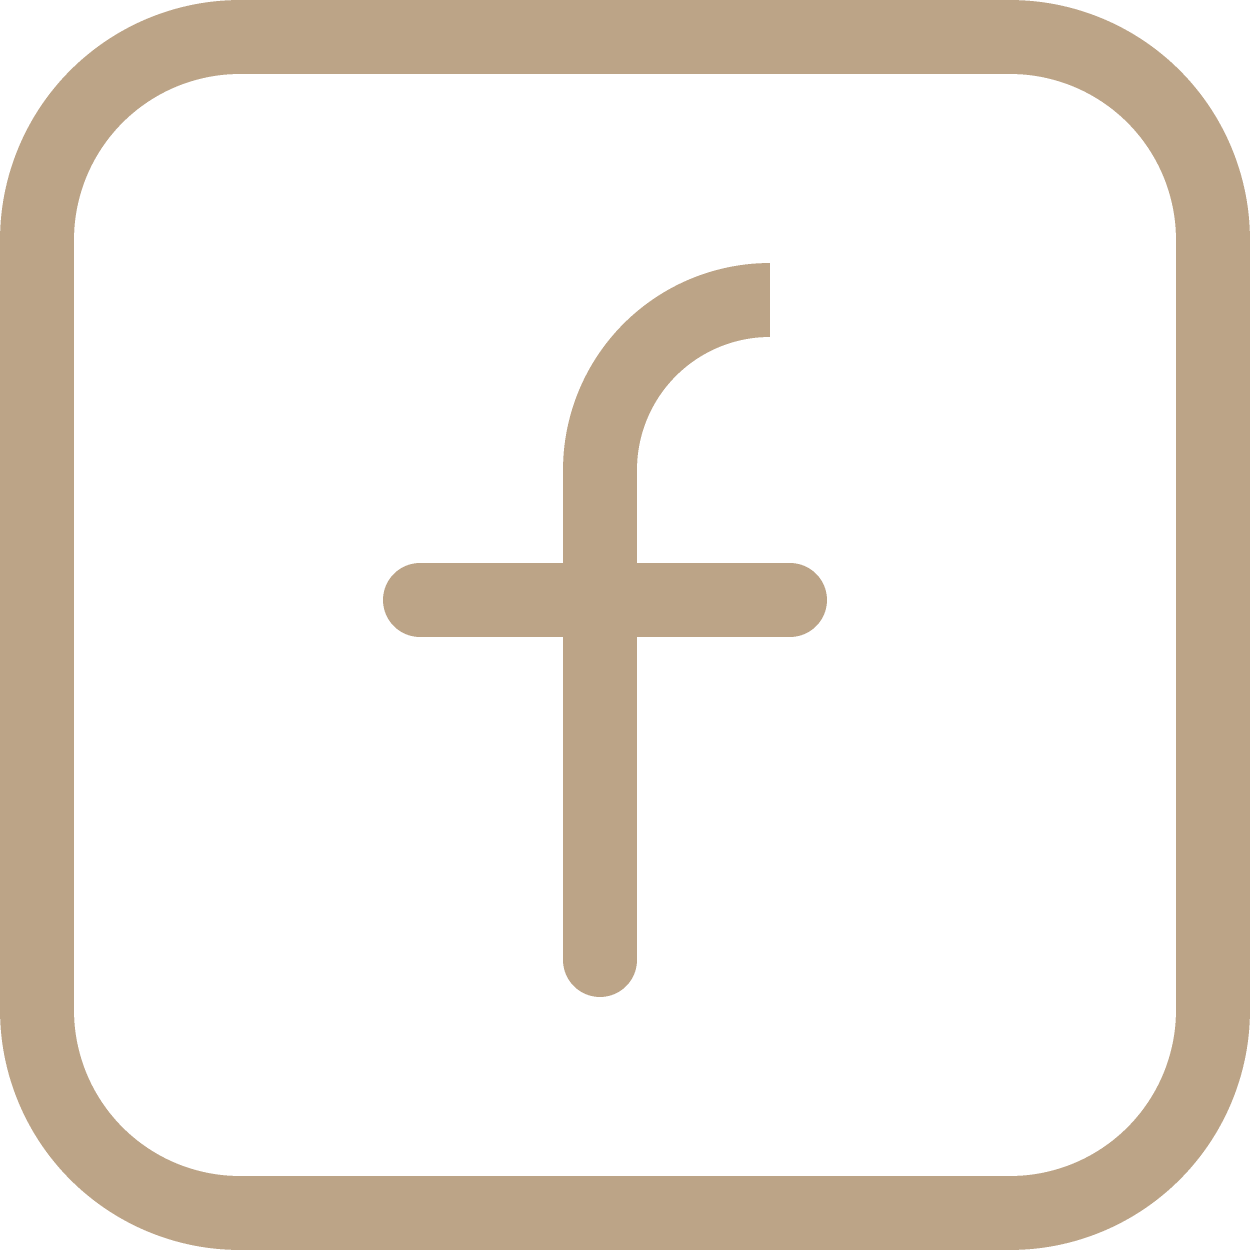
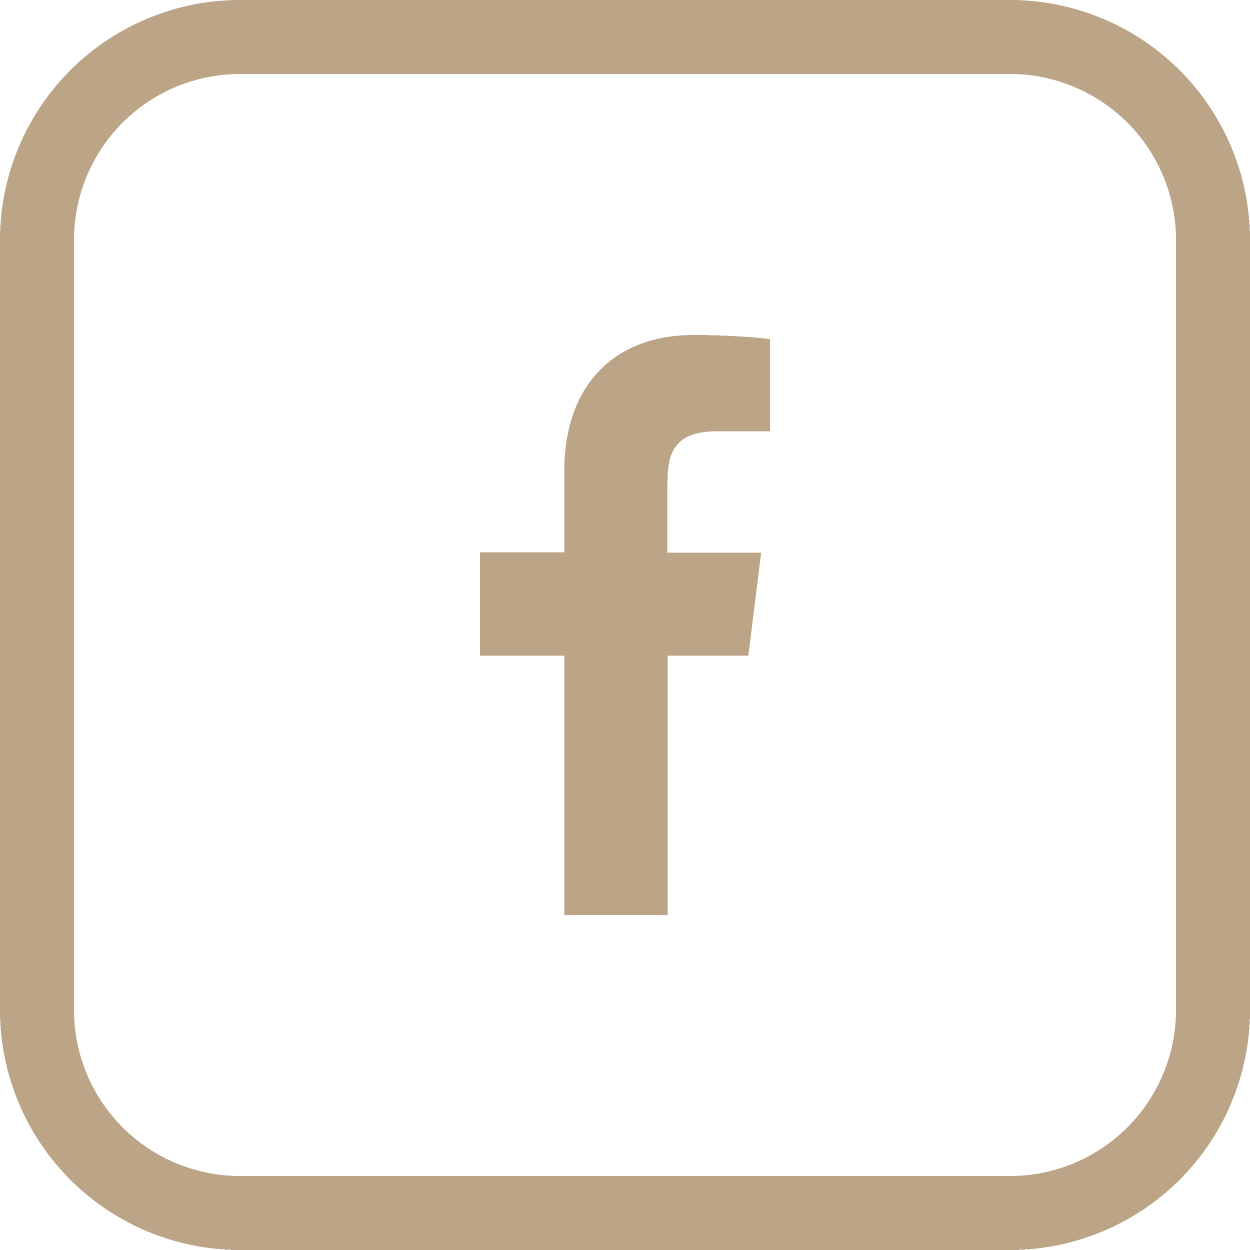
Icone Facebook : reprise du trace officiel de la marque
Le f precedent etait une lettre generique en trait fin, peu fidele. Il est
remplace par le trace vectoriel officiel, aplati et rempli, dans le cadre carre
arrondi repris de l icone Instagram existante.

Changed region(s): [[0.4368, 0.1872, 0.6864, 0.8112], [0.2808, 0.4368, 0.468, 0.5304]]

diff --git a/build-icon-facebook.js b/build-icon-facebook.js
@@ -1,6 +1,10 @@
 // Dessine l'icône Facebook manquante, calée sur le jeu d'icônes déjà en ligne
 // (mesures relevées sur instagam.png : toile 1250 px, trait 74 px, rayon de coin 240 px,
 // or rgb(188,164,135), tracé jointif au bord de la toile).
+//
+// Le « f » n'est pas une lettre redessinée : c'est le tracé officiel de la marque
+// Facebook, repris tel quel puis mis à l'échelle. Il est plein — c'est ainsi que la
+// marque existe ; un « f » en trait fin ne ressemble pas à Facebook.
 const fs = require('fs');
 const path = require('path');
 const { PNG } = require('pngjs');
@@ -8,101 +12,131 @@ const { PNG } = require('pngjs');
 const OUT = path.join(__dirname, 'out');
 fs.mkdirSync(OUT, { recursive: true });
 
-const N = 1250;      // toile, identique à instagam.png
-const SS = 3;        // supersampling
-const W = 74;        // épaisseur de trait du jeu existant
-const R_OUT = 240;   // rayon de coin extérieur du carré arrondi
+const N = 1250;          // toile, identique à instagam.png
+const SS = 3;            // supersampling
+const TRAIT = 74;        // épaisseur de trait du jeu existant
+const R_COIN = 240;      // rayon de coin extérieur du carré arrondi
 const OR = [188, 164, 135];
+
+const GLYPHE_H = Number(process.env.FB_H) || 580;  // hauteur du « f » sur la toile
+const CADRE = process.env.FB_CADRE || 'carre';     // 'carre' | 'cercle' | 'aucun'
+
+// --- tracé officiel de la marque, dans sa boîte d'origine 24x24 (x de 6.187 à 18.188)
+const PATH = [
+  ['M', 15.997, 3.985],
+  ['L', 18.188, 3.985],
+  ['L', 18.188, 0.169],
+  ['C', 17.810, 0.117, 16.510, 0, 14.996, 0],
+  ['C', 11.837, 0, 9.673, 1.987, 9.673, 5.639],
+  ['L', 9.673, 9],
+  ['L', 6.187, 9],
+  ['L', 6.187, 13.266],
+  ['L', 9.673, 13.266],
+  ['L', 9.673, 24],
+  ['L', 13.947, 24],
+  ['L', 13.947, 13.267],
+  ['L', 17.292, 13.267],
+  ['L', 17.823, 9.001],
+  ['L', 13.946, 9.001],
+  ['L', 13.946, 6.062],
+  ['C', 13.947, 4.829, 14.279, 3.985, 15.997, 3.985],
+];
+const BOITE = { x0: 6.187, y0: 0, x1: 18.188, y1: 24 };
+
+// --- aplatissement des courbes en polygone
+function polygone(scale, dx, dy, pas = 24) {
+  const pts = [];
+  const T = (x, y) => [dx + (x - BOITE.x0) * scale, dy + (y - BOITE.y0) * scale];
+  let cur = null;
+  for (const c of PATH) {
+    if (c[0] === 'M' || c[0] === 'L') {
+      cur = [c[1], c[2]];
+      pts.push(T(cur[0], cur[1]));
+    } else {
+      const [, c1x, c1y, c2x, c2y, ex, ey] = c;
+      const [sx, sy] = cur;
+      for (let i = 1; i <= pas; i++) {
+        const t = i / pas, u = 1 - t;
+        const x = u * u * u * sx + 3 * u * u * t * c1x + 3 * u * t * t * c2x + t * t * t * ex;
+        const y = u * u * u * sy + 3 * u * u * t * c1y + 3 * u * t * t * c2y + t * t * t * ey;
+        pts.push(T(x, y));
+      }
+      cur = [ex, ey];
+    }
+  }
+  return pts;
+}
+
+// --- remplissage par balayage de lignes (pair-impair : contour unique)
+function remplir(mask, W, H, pts) {
+  let ymin = Infinity, ymax = -Infinity;
+  for (const [, y] of pts) { if (y < ymin) ymin = y; if (y > ymax) ymax = y; }
+  const y0 = Math.max(0, Math.floor(ymin)), y1 = Math.min(H - 1, Math.ceil(ymax));
+  const xs = [];
+  for (let py = y0; py <= y1; py++) {
+    const yc = py + 0.5;
+    xs.length = 0;
+    for (let i = 0, n = pts.length; i < n; i++) {
+      const [ax, ay] = pts[i], [bx, by] = pts[(i + 1) % n];
+      if ((ay <= yc && by > yc) || (by <= yc && ay > yc)) {
+        xs.push(ax + ((yc - ay) / (by - ay)) * (bx - ax));
+      }
+    }
+    xs.sort((a, b) => a - b);
+    for (let k = 0; k + 1 < xs.length; k += 2) {
+      const a = Math.max(0, Math.ceil(xs[k] - 0.5)), b = Math.min(W - 1, Math.floor(xs[k + 1] - 0.5));
+      for (let px = a; px <= b; px++) mask[py * W + px] = 1;
+    }
+  }
+}
 
 // --- distance signée à un rectangle arrondi (repère centré)
 function sdRoundRect(x, y, hw, hh, r) {
-  const qx = Math.abs(x) - (hw - r);
-  const qy = Math.abs(y) - (hh - r);
+  const qx = Math.abs(x) - (hw - r), qy = Math.abs(y) - (hh - r);
   const ax = Math.max(qx, 0), ay = Math.max(qy, 0);
   return Math.hypot(ax, ay) + Math.min(Math.max(qx, qy), 0) - r;
 }
 
-// --- carré arrondi en contour, épaisseur W, bord extérieur collé à la toile
-const HW = N / 2;
-const rMid = R_OUT - W / 2;
-const cadre = (x, y) => Math.abs(sdRoundRect(x - HW, y - HW, HW - W / 2, HW - W / 2, rMid)) <= W / 2;
+function generer(fichier) {
+  const W3 = N * SS;
+  const mask = new Uint8Array(W3 * W3);
 
-// --- le « f », tracé d'épaisseur constante W : hampe + crochet tangents au même point
-const F_X = 600;        // axe de la hampe
-const F_JOIN = 470;     // raccord hampe / crochet
-const F_R = 170;        // rayon de la ligne médiane du crochet
-const F_BOTTOM = 960;
-const F_BAR_Y = 600, F_BAR_X0 = 420, F_BAR_X1 = 790;
+  // le glyphe, à l'échelle demandée et centré
+  const scale = (GLYPHE_H / (BOITE.y1 - BOITE.y0)) * SS;
+  const gw = (BOITE.x1 - BOITE.x0) * scale, gh = (BOITE.y1 - BOITE.y0) * scale;
+  remplir(mask, W3, W3, polygone(scale, (W3 - gw) / 2, (W3 - gh) / 2));
 
-function segment(x, y, ax, ay, bx, by) {
-  const dx = bx - ax, dy = by - ay;
-  const t = Math.max(0, Math.min(1, ((x - ax) * dx + (y - ay) * dy) / (dx * dx + dy * dy)));
-  return Math.hypot(x - (ax + t * dx), y - (ay + t * dy)) <= W / 2;
-}
-
-function crochet(x, y) {
-  const dx = x - (F_X + F_R), dy = y - F_JOIN;
-  const d = Math.hypot(dx, dy);
-  if (Math.abs(d - F_R) > W / 2) return false;
-  return dx <= 0 && dy <= 0; // quart supérieur gauche : du raccord vers le haut
-}
-
-const glyphe = (x, y) =>
-  segment(x, y, F_X, F_JOIN, F_X, F_BOTTOM) ||
-  crochet(x, y) ||
-  segment(x, y, F_BAR_X0, F_BAR_Y, F_BAR_X1, F_BAR_Y);
-
-const forme = (x, y) => cadre(x, y) || glyphe(x, y);
-
-const png = new PNG({ width: N, height: N });
-for (let py = 0; py < N; py++) {
-  for (let px = 0; px < N; px++) {
-    let hits = 0;
-    for (let sy = 0; sy < SS; sy++) {
-      for (let sx = 0; sx < SS; sx++) {
-        if (forme(px + (sx + 0.5) / SS, py + (sy + 0.5) / SS)) hits++;
+  // le cadre
+  if (CADRE !== 'aucun') {
+    const HW = N / 2, rMid = R_COIN - TRAIT / 2, demi = TRAIT / 2;
+    for (let py = 0; py < W3; py++) {
+      const y = (py + 0.5) / SS - HW;
+      for (let px = 0; px < W3; px++) {
+        const x = (px + 0.5) / SS - HW;
+        const d = CADRE === 'cercle'
+          ? Math.abs(Math.hypot(x, y) - (HW - demi))
+          : Math.abs(sdRoundRect(x, y, HW - demi, HW - demi, rMid));
+        if (d <= demi) mask[py * W3 + px] = 1;
       }
     }
-    const i = (py * N + px) * 4;
-    png.data[i] = OR[0];
-    png.data[i + 1] = OR[1];
-    png.data[i + 2] = OR[2];
-    png.data[i + 3] = Math.round((hits / (SS * SS)) * 255);
   }
-}
-fs.writeFileSync(path.join(OUT, 'facebook.png'), PNG.sync.write(png));
 
-// --- planche de contrôle : le nouveau Facebook à côté des icônes existantes
-const set = ['wp/instagam.png', 'out/facebook.png', 'wp/telephone.png', 'wp/mail.png'];
-const S = 120;
-const sheet = new PNG({ width: S * set.length, height: S });
-for (let i = 0; i < sheet.data.length; i += 4) {
-  sheet.data[i] = sheet.data[i + 1] = sheet.data[i + 2] = 255;
-  sheet.data[i + 3] = 255;
-}
-set.forEach((f, k) => {
-  const p = PNG.sync.read(fs.readFileSync(path.join(__dirname, f)));
-  const sc = Math.min(S / p.width, S / p.height) * 0.86;
-  const ow = Math.round(p.width * sc), oh = Math.round(p.height * sc);
-  const ox = k * S + Math.round((S - ow) / 2), oy = Math.round((S - oh) / 2);
-  for (let y = 0; y < oh; y++) {
-    for (let x = 0; x < ow; x++) {
-      // moyenne de boîte pour un rendu propre à petite taille
-      const sx0 = Math.floor(x / sc), sx1 = Math.min(p.width, Math.ceil((x + 1) / sc));
-      const sy0 = Math.floor(y / sc), sy1 = Math.min(p.height, Math.ceil((y + 1) / sc));
-      let r = 0, g = 0, b = 0, a = 0, n = 0;
-      for (let yy = sy0; yy < sy1; yy++) for (let xx = sx0; xx < sx1; xx++) {
-        const si = (yy * p.width + xx) * 4;
-        const al = p.data[si + 3] / 255;
-        r += p.data[si] * al; g += p.data[si + 1] * al; b += p.data[si + 2] * al; a += al; n++;
+  // sous-échantillonnage SSxSS -> couverture
+  const png = new PNG({ width: N, height: N });
+  for (let y = 0; y < N; y++) {
+    for (let x = 0; x < N; x++) {
+      let hits = 0;
+      for (let sy = 0; sy < SS; sy++) {
+        const row = (y * SS + sy) * W3 + x * SS;
+        for (let sx = 0; sx < SS; sx++) hits += mask[row + sx];
       }
-      const di = ((oy + y) * sheet.width + (ox + x)) * 4;
-      const av = a / n;
-      sheet.data[di] = Math.round(255 + (r / n / (av || 1) - 255) * av);
-      sheet.data[di + 1] = Math.round(255 + (g / n / (av || 1) - 255) * av);
-      sheet.data[di + 2] = Math.round(255 + (b / n / (av || 1) - 255) * av);
+      const i = (y * N + x) * 4;
+      png.data[i] = OR[0]; png.data[i + 1] = OR[1]; png.data[i + 2] = OR[2];
+      png.data[i + 3] = Math.round((hits / (SS * SS)) * 255);
     }
   }
-});
-fs.writeFileSync(path.join(OUT, '_apercu-facebook.png'), PNG.sync.write(sheet));
-console.log('facebook.png généré');
+  fs.writeFileSync(path.join(OUT, fichier), PNG.sync.write(png));
+}
+
+generer(process.env.FB_OUT || 'facebook.png');
+console.log(`${process.env.FB_OUT || 'facebook.png'} — cadre « ${CADRE} », glyphe ${GLYPHE_H} px`);

diff --git a/LISEZ-MOI.md b/LISEZ-MOI.md
@@ -13,7 +13,7 @@ médiathèque WordPress de `dr-bergeon.fr`.
 | `out/preview-*.html` | aperçus ouvrables au navigateur (images locales) |
 | `out/logo-signature.gif` | bloc-marque animé ré-encodé, 412×297 px (affiché 200×144), 92 Ko |
 | `out/logo-signature.png` | même image figée, pour une signature sans animation |
-| `out/facebook.png` | icône Facebook, dessinée pour compléter le jeu existant |
+| `out/facebook.png` | icône Facebook, ajoutée pour compléter le jeu existant |
 | `build-logo.js`, `build-icon-facebook.js`, `build-signature.js` | scripts de regénération |
 
 ## Ce que contient la signature
@@ -56,6 +56,26 @@ Ne plus déplacer ni renommer ces fichiers ensuite : les mails déjà envoyés p
 > message d'un correspondant. Le texte, les liens et le bouton Doctolib restent
 > lisibles ; le bloc-marque et les pictogrammes attendent un clic sur « afficher les
 > images ». C'est le comportement de toute signature illustrée.
+
+## L'icône Facebook
+
+Le jeu en ligne n'en comportait pas. `build-icon-facebook.js` la produit au gabarit
+exact des autres, relevé sur `instagam.png` : toile 1250 px, trait 74 px, rayon de coin
+240 px, or `rgb(188,164,135)`.
+
+Le « f » n'est pas une lettre redessinée : c'est le tracé vectoriel officiel de la
+marque, aplati puis rempli. Il est **plein**, comme la marque elle-même — un « f » en
+trait fin, aligné sur l'épaisseur des autres pictogrammes, ne ressemble pas à Facebook.
+
+Deux réglages par variables d'environnement :
+
+```bash
+FB_CADRE=cercle node build-icon-facebook.js   # cadre rond au lieu du carré arrondi
+FB_H=540 node build-icon-facebook.js          # « f » plus ou moins grand dans le cadre
+```
+
+Le carré arrondi est retenu par défaut : il reprend le cadre de l'icône Instagram
+existante et correspond à l'icône d'application Facebook.
 
 ## Le bloc-marque animé
 
